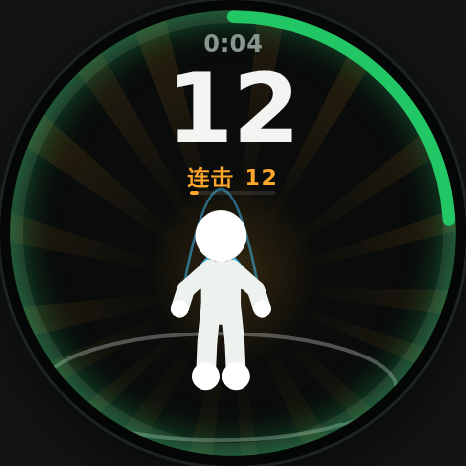
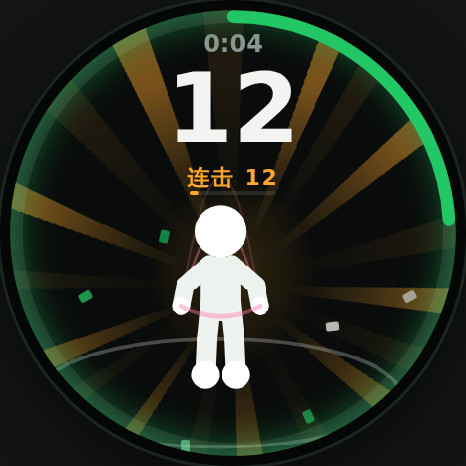
Heat 1 rays also rotate, slowly
Heat 1 gains a gentle ~14s/turn rotation on top of its time-driven
alternation; heat 2 keeps the faster ~6.5s/turn. fps step quantization
and reduced-motion rules cover the new animation; docs and screenshots
updated.

Claude-Session: https://claude.ai/code/session_01MZXpzSkZDw4hTcUnQ2UQRA

diff --git a/docs-and-demo/demo.html b/docs-and-demo/demo.html
@@ -556,7 +556,7 @@
      热血1 = 不转动,两组条纹交替点亮(轻微缓慢);热血2 = 交替更快更亮更白 + 整体转动 */
   .rays .rlay { position: absolute; inset: 0; opacity: 0; }
   /* 交替由 CSS 动画按时间持续进行(与跳跃节拍无关);热血1 ~1.1s 一轮,热血2 ~0.64s 一轮 */
-  .rays.lv1 { filter: opacity(.55); }
+  .rays.lv1 { filter: opacity(.55); animation: rayspin 14s linear infinite; }   /* 热血1 也缓慢旋转(8-26) */
   .rays.lv1 .rlay { background: #FFA62C; }
   .rays.lv1 .rlay.ra { animation: rayswap 1.1s linear infinite; }
   .rays.lv1 .rlay.rb { animation: rayswap 1.1s linear infinite -.55s; }
@@ -567,7 +567,7 @@
   @keyframes rayswap { 0%, 49.9% { opacity: .82; } 50%, 100% { opacity: .16; } }
   @keyframes rayspin { to { transform: rotate(360deg); } }
   @media (prefers-reduced-motion: reduce) {
-    .rays .rlay, .rays.lv2 { animation: none; }
+    .rays .rlay, .rays.lv1, .rays.lv2 { animation: none; }
     .rays .rlay { opacity: .5; }
   }
 
@@ -575,6 +575,7 @@
      连续动画量化为逐帧；过渡动画直切（低刷新率下 tween 无意义） */
 
   #atomRoot.fps10, #atomRoot.fps10 * { transition: none !important; }
+  #atomRoot.fps10 .rays.lv1 { animation: rayspin 14s steps(140) infinite; }
   #atomRoot.fps10 .rays.lv2 { animation: rayspin 6.5s steps(65) infinite; }
   #atomRoot.fps10 .bono.idle .body-g  { animation-timing-function: steps(26); }
   #atomRoot.fps10 .bono.hop .body-g   { animation-timing-function: steps(4); }
@@ -588,6 +589,7 @@
   #atomRoot.fps10 .aura.on            { animation-timing-function: steps(11); }
 
   #atomRoot.fps13, #atomRoot.fps13 * { transition: none !important; }
+  #atomRoot.fps13 .rays.lv1 { animation: rayspin 14s steps(182) infinite; }
   #atomRoot.fps13 .rays.lv2 { animation: rayspin 6.5s steps(85) infinite; }
   #atomRoot.fps13 .bono.idle .body-g  { animation-timing-function: steps(34); }
   #atomRoot.fps13 .bono.hop .body-g   { animation-timing-function: steps(5); }
@@ -601,6 +603,7 @@
   #atomRoot.fps13 .aura.on            { animation-timing-function: steps(14); }
 
   #atomRoot.fps15, #atomRoot.fps15 * { transition: none !important; }
+  #atomRoot.fps15 .rays.lv1 { animation: rayspin 14s steps(210) infinite; }
   #atomRoot.fps15 .rays.lv2 { animation: rayspin 6.5s steps(98) infinite; }
   #atomRoot.fps15 .bono.idle .body-g  { animation-timing-function: steps(39); }
   #atomRoot.fps15 .bono.hop .body-g   { animation-timing-function: steps(6); }
@@ -1054,7 +1057,7 @@
         <tr><td><b>每一跳</b></td><td>五声音阶"叮" + 数字砸入回弹 + 脚下金色透视涟漪(同帧,延迟 <100ms)</td></tr>
         <tr><td><b>每 10 下</b></td><td>数字重击(1.9×+震屏)+ 火柴人全身金光 0.5s + 语音报数 + 50% 概率小彩带</td></tr>
         <tr><td><b>每 20 下</b></td><td>+2★ 飞星;15% 概率彩蛋双倍 +4★ + 彩带雨 + 专属播报</td></tr>
-        <tr><td><b>连击 Combo</b></td><td>(8-26 定稿)两跳间隔 <b>≤0.7s</b> 连击 +1,断连归零;连击 10 → <b>热血1</b>(随机宽窄条纹,不转动·两组按时间持续交替点亮 ~1.1s/轮),连击 30 → <b>热血2</b>(交替加快 ~0.64s + 整体转动 + 强气场);<b>热血2 内每保持 20 下 = 1★</b>(连击 50/70/90…,★×N 显示在蓄力槽右侧,计数固定居中)+语音庆祝;计数下方 COMBO 标签(第 5 次起)+ 三段热血蓄力槽(热血2 槽蓄满后常满保持,断连才清空)</td></tr>
+        <tr><td><b>连击 Combo</b></td><td>(8-26 定稿)两跳间隔 <b>≤0.7s</b> 连击 +1,断连归零;连击 10 → <b>热血1</b>(随机宽窄条纹,缓慢转动 ~14s/圈·两组按时间持续交替点亮 ~1.1s/轮),连击 30 → <b>热血2</b>(交替加快 ~0.64s + 转动加快 ~6.5s/圈 + 强气场);<b>热血2 内每保持 20 下 = 1★</b>(连击 50/70/90…,★×N 显示在蓄力槽右侧,计数固定居中)+语音庆祝;计数下方 COMBO 标签(第 5 次起)+ 三段热血蓄力槽(热血2 槽蓄满后常满保持,断连才清空)</td></tr>
         <tr><td><b>每 50 下</b></td><td>换绳色(星星已改由连击奖励)</td></tr>
         <tr><td><b>隐藏数字</b></td><td>每天 55–99 换一个,踩中 +5★ + 彩带 + 专属播报</td></tr>
         <tr><td><b>达标</b></td><td>彩带 + 数字转暖 + "继续冲!"——绝不打断,51、52 继续数</td></tr>

diff --git a/docs-and-demo/jump-rope-mini-prd.md b/docs-and-demo/jump-rope-mini-prd.md
@@ -102,7 +102,7 @@ Atom OS 系统入口卡（吉祥物 ATOM + 连续 N 天）
 | FR-4.4 | **虚拟绳**：**绳色随机**——8 色池（默认翠绿），开轮随机抽色、**每满一圈换新色**（与燃起来升级同拍，构成课中小惊喜）；相位振荡器驱动，转速=实测跳频 EMA；每次计数把相位向"绳过脚下"软校正 40%；绳过下半周画在人前/上半周在人后；3 条残影弧抗低帧率频闪；不跳时淡出（1.2s 全显 + 0.7s 淡出） | 绳与跳跃节拍视觉同步 |
 | FR-4.5 | **触地涟漪**：仅在"判定计数落地"触发；单个透视椭圆环；0 帧最强（金色闪光 + 最粗线宽），0.7s 内爆发扩张-压缩-回弹-消失，与计数动画同一套"打击语法" | 无计数不出现 |
 | FR-4.6 | **进度环与星**：环一圈 = **freestyle goal 目标环**（50/100/200，默认 200——8-18 定稿，原 daily goal 更名），跳满自动重置再来一圈、**再次满环背景升温一档**（更热烈）；★ 改由**连击/热血奖励**（**8-26 定稿**：热血2 内每保持 20 下一颗，见 FR-4.15；原"固定每 50 一颗"废止，每 50 保留换绳色），>4 颗收敛为 ★×N | 限时模式下同一条进度弧改为正计时填满（见 FR-4.9） |
-| FR-4.7 | **燃起来·热血光芒**（**8-26 二次修订：随机条纹 + 分级动效**，全模式统一）：条纹**宽窄（4–9°）与间隔（8–20°）带随机性**（开机生成一次，交错分成 A/B 两组——手绘漫画感，避免机械均分）；**热血1**（连击 ≥10）= **不转动**，暖橙两组条纹**交替点亮**（~1.1s 一轮；**交替按时间持续进行，与跳跃节拍无关**）；**热血2**（连击 ≥30）= 交替更快（~0.64s）更亮更白（米白/浅金双色）+ **整体转动**（~6.5s/圈）；**断连（>0.7s 无跳）即全部熄灭回普通**；**放射中心 = 火柴人渲染中心**（50%, 62%，屏幕偏下）；**中心近黑、越到边缘越清楚**（径向遮罩淡出——计数数字与火柴人永不被光芒糊住） | 交替=硬切换，10–15fps 下同样干脆；转动 steps() 量化 |
+| FR-4.7 | **燃起来·热血光芒**（**8-26 二次修订：随机条纹 + 分级动效**，全模式统一）：条纹**宽窄（4–9°）与间隔（8–20°）带随机性**（开机生成一次，交错分成 A/B 两组——手绘漫画感，避免机械均分）；**热血1**（连击 ≥10）= 暖橙两组条纹**交替点亮**（~1.1s 一轮；**交替按时间持续进行，与跳跃节拍无关**）+ **缓慢转动**（~14s/圈）；**热血2**（连击 ≥30）= 交替更快（~0.64s）更亮更白（米白/浅金双色）+ **转动加快**（~6.5s/圈）；**断连（>0.7s 无跳）即全部熄灭回普通**；**放射中心 = 火柴人渲染中心**（50%, 62%，屏幕偏下）；**中心近黑、越到边缘越清楚**（径向遮罩淡出——计数数字与火柴人永不被光芒糊住） | 交替=硬切换，10–15fps 下同样干脆；转动 steps() 量化 |
 | FR-4.8 | **达标不打断**：达到目标时彩带 + 语音 + 数字转暖色，继续 51、52… 往上数 | 绝不弹结算；无浮层弹窗 |
 | FR-4.9 | **限时测试（1'/2'，默认 1' 主推——会后修订:恢复 2' 档；1'=中考口径拼爆发、2'=耐力+爆发）**：外圈与自由模式**共用同一条进度弧**（8-26 修订，替代 60 格刻度环）：按设定时长**正计时顺时针逐渐填满**（满 = 时间到），最后 10s 弧转暖橙；顶部倒计时读秒（最后 10s 转暖橙）；剩 30s/10s 语音节点；时间到自动结算并记历史最佳；**倒计时读秒复用现有保持类控件（8-18）** | 1'/2' 分别记最佳；1' 月榜上屏主推，2' 月榜后端就绪（入口 P1） |
 | FR-4.10 | **暂停（双入口）**：① 出框/切后台（AI `setPresence(false)`）自动暂停；② **训练中单击屏幕手动暂停**——弹出控制面板 `[继续] [立即结算] [放弃本轮]`，遮罩空白处点按=继续；**放弃本轮 = 计数/时长全部作废、不落档不进结算**（已结算的历史数据不可删）；暂停超 3 分钟自动结算保存（可配 3–5min） | 停表；暂停时长不计入用时与卡路里；出框副文案"回到画面继续"、手动副文案"休息一下" |

diff --git a/docs-and-demo/ui/README.md b/docs-and-demo/ui/README.md
@@ -13,9 +13,9 @@
 | 06-mode-select | 模式选择 | 不限时(freestyle goal 200)/ 限时 1'/2' 默认 1';「仅识别并脚跳」提示(8-18);角按钮[‹][Tips] |
 | 07-countdown | 倒计时 | 3·2·1(136px) |
 | 08-go-bodypark | 发令帧 | 品牌口号 BodyPark(0.75s) |
-| 09-jumping | 训练屏(热血1) | 打击计数(固定居中)+ 骨骼火柴人 + 随机彩绳;热血1=随机宽窄条纹不转动、两组交替点亮 |
+| 09-jumping | 训练屏(热血1) | 打击计数(固定居中)+ 骨骼火柴人 + 随机彩绳;热血1=随机宽窄条纹缓慢转动(~14s/圈)、两组交替点亮 |
 | 10-jumping-ripple | 训练屏·涟漪 | 计数落地金色冲击涟漪(0 帧最强) |
-| 11-jumping-fire | 训练屏·热血状态 | 热血两级(8-26:连击 10→热血1 随机条纹交替点亮不转动/连击 30→热血2 交替加快+整体转动+金色气场;热血2 内每 20 下+1★,★×N 在蓄力槽右侧;断连即熄)+ COMBO 标签 + 三段蓄力槽;中心淡出,圆心=火柴人中心(图为热血2) |
+| 11-jumping-fire | 训练屏·热血状态 | 热血两级(8-26:连击 10→热血1 随机条纹交替点亮+缓慢转动/连击 30→热血2 交替加快+转动加快+金色气场;热血2 内每 20 下+1★,★×N 在蓄力槽右侧;断连即熄)+ COMBO 标签 + 三段蓄力槽;中心淡出,圆心=火柴人中心(图为热血2) |
 | 12-paused | 暂停遮罩 | 出框/切后台立即暂停,超 3 分钟自动结算 |
 | 13-celebrate | 新纪录恭喜页 | 结果页点「完成」后弹出的自包含庆祝模块(吸纳 set-celebration):三行堆叠+蓄力爆发+金彩纸炮+圆边金光环,可点按跳过 → onDone 回首页 |
 | 14-result | 结果页 | 8-18:训练完成默认直达;大数字 + 状态行 + ★星星·自我对比行 + 今日累计;同时自动生成 466×466 结果分享卡 |
